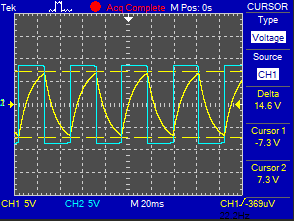
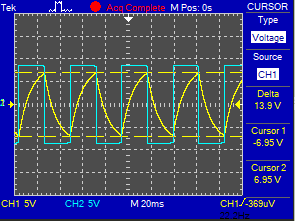
update lab3 report

diff --git a/Lab3/Report/main.tex b/Lab3/Report/main.tex
@@ -67,6 +67,7 @@
 \newlength{\vrefheight}
 \settoheight{\vrefheight}{\includegraphics{images/Inverting-Schmitt-Trigger-Vref-Circuit.png}}
 
+\setlength {\marginparwidth }{2cm} 
 %*******************************************************************************%
 %************************************START**************************************%
 %*******************************************************************************%
@@ -231,7 +232,7 @@ From figure \ref{fig:$V_{ref}$ from waveform for inverting schmitt trigger}, $|V
 Like the inverting Schmitt trigger, the non-inverting configuration also exhibits hysteresis behavior, resulting in two distinct threshold levels for switching the output between high and low states. These threshold levels are determined by the resistor values in the feedback network and the input resistors' ratio.
 \[ |V_{ref}| = \frac{R_{1}}{R_{2}}  \times V_{ss}\]
 Thus, \(|V_{ref}|=\frac{1k}{10k}\times8.5=850mV\). \\
-From figure \ref{fig:$V_{ref}$ from waveform for non-inverting schmitt trigger}, $|V_{ref}|=850mV$ which is near the theoretical value.
+From figure \ref{fig:$V_{ref}$ from waveform for non-inverting schmitt trigger}, $|V_{ref}|=840mV$ which is near the theoretical value.
 
 \newpage
 
@@ -292,7 +293,7 @@ From figure \ref{fig:T from waveform for astable multivibrator as square wave ge
 Like the Schmitt trigger, the astable multivibrator also exhibits hysteresis behavior, resulting in two distinct threshold levels for switching the output between high and low states. These threshold levels are determined by the resistor values in the feedback network and the input resistors' ratio.
 \[ |V_{ref}| = \frac{R_{1}}{R_{1} + R_{2}}  \times V_{ss}\]
 Thus, $|V_{ss}|=8.5$ and \(|V_{ref}|=\frac{10k}{10k+2.2k}\times8.5=6.97V\). \\
-From figure \ref{fig:$V_{ref}$ from waveform for astable multivibrator as square wave generator}, $|V_{ref}|=7.3V$ which is near the theoretical value.
+From figure \ref{fig:$V_{ref}$ from waveform for astable multivibrator as square wave generator}, $|V_{ref}|=6.95V$ which is near the theoretical value.
 
 \newpage
 
